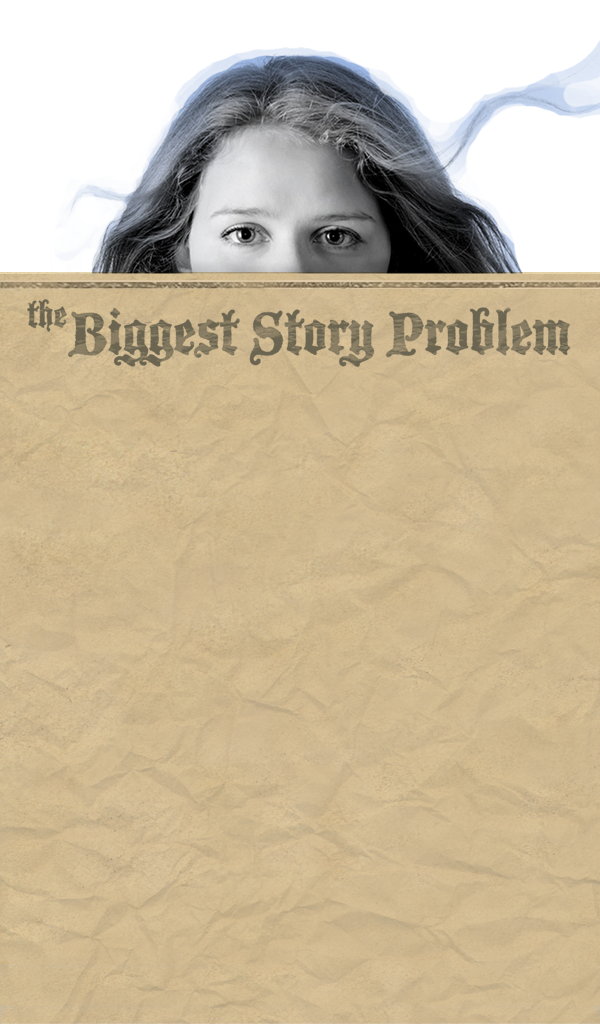
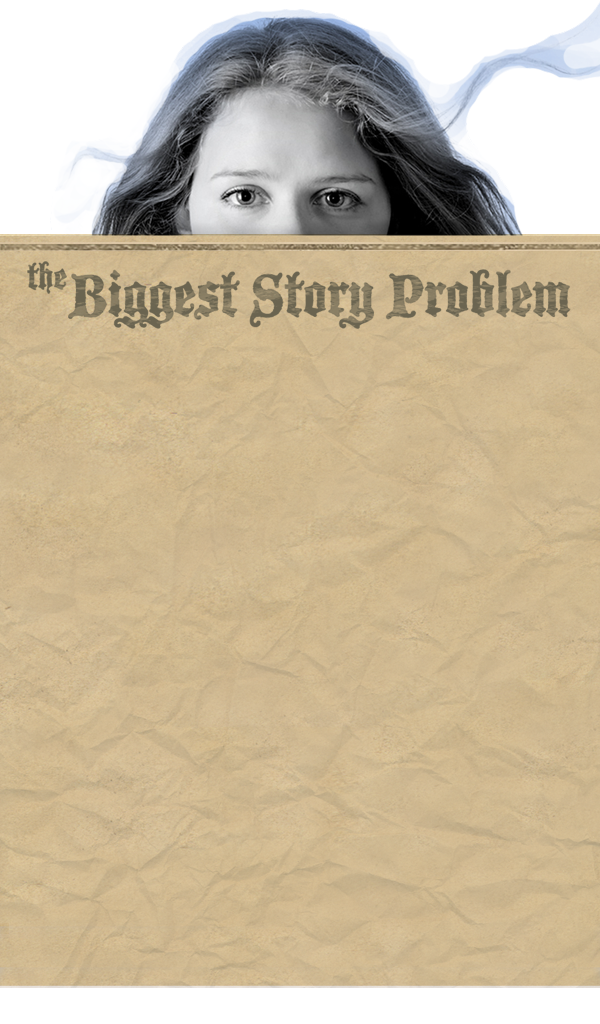
adjustment to get content up towards the top

Changed region(s): [[0.0, 0.0, 1.0, 0.375], [0.0, 0.9375, 1.0, 1.0]]

diff --git a/public/stylesheets/application/application.css b/public/stylesheets/application/application.css
@@ -74,7 +74,7 @@ body {overflow: hidden;}
 #right_hand {position: absolute; width: 90px; height: 140px; top: 430px; right: -40px; background: transparent url(../../images/right_hand.png) 0px 0px repeat-x;z-index: 10;}
 #main_content {
 	position: absolute;
-	top: 377px;
+	top: 336px;
 	left: 0px;
 	width: 600px;
 	background: transparent url(../../images/paper-bg.png) 0px 0px no-repeat;
@@ -100,8 +100,7 @@ body {overflow: hidden;}
 }
 #demo_reel {
 	position: relative;
-	width: 585px;
-	height: 326px;
+	float:left;
 }
 #demo_reel img {margin: 15px 11px;}
 
